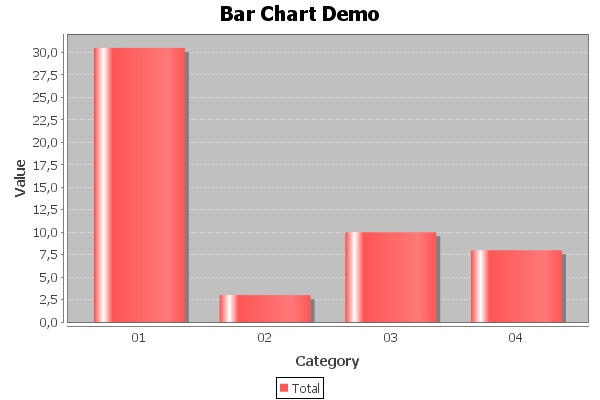
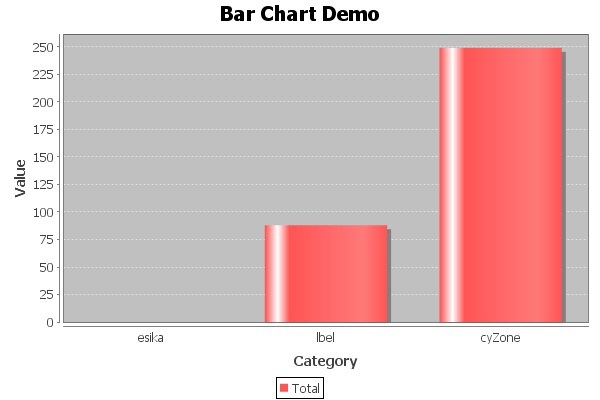
Merge origin/master
Conflicts:
	Sistemas/src/sistemas/ReporteVentas.java

diff --git a/Sistemas/src/sistemas/ReporteVentas.java b/Sistemas/src/sistemas/ReporteVentas.java
@@ -5,6 +5,7 @@
  */
 package sistemas;
 
+import SalesBusinessModel.SalesManager;
 import javax.swing.JFrame;
 import javax.swing.JFileChooser;
 import javax.swing.JPanel;
@@ -81,8 +82,8 @@ public class ReporteVentas extends javax.swing.JFrame {
         comboAgrupar = new javax.swing.JComboBox();
         jButton1 = new javax.swing.JButton();
         jLabel6 = new javax.swing.JLabel();
-        jRadioButton3 = new javax.swing.JRadioButton();
-        jRadioButton4 = new javax.swing.JRadioButton();
+        but_u = new javax.swing.JRadioButton();
+        but_d = new javax.swing.JRadioButton();
         jPanel2 = new javax.swing.JPanel();
         jScrollPane1 = new javax.swing.JScrollPane();
         jTable1 = new javax.swing.JTable();
@@ -137,14 +138,14 @@ public class ReporteVentas extends javax.swing.JFrame {
         jLabel6.setText("Unidades");
         jPanel1.add(jLabel6, new org.netbeans.lib.awtextra.AbsoluteConstraints(320, 110, -1, -1));
 
-        buttonGroup2.add(jRadioButton3);
-        jRadioButton3.setText("UNIDADES");
-        jPanel1.add(jRadioButton3, new org.netbeans.lib.awtextra.AbsoluteConstraints(410, 110, -1, -1));
+        buttonGroup2.add(but_u);
+        but_u.setText("UNIDADES");
+        jPanel1.add(but_u, new org.netbeans.lib.awtextra.AbsoluteConstraints(410, 110, -1, -1));
 
-        buttonGroup2.add(jRadioButton4);
-        jRadioButton4.setSelected(true);
-        jRadioButton4.setText("USD MILES");
-        jPanel1.add(jRadioButton4, new org.netbeans.lib.awtextra.AbsoluteConstraints(410, 140, -1, -1));
+        buttonGroup2.add(but_d);
+        but_d.setSelected(true);
+        but_d.setText("USD MILES");
+        jPanel1.add(but_d, new org.netbeans.lib.awtextra.AbsoluteConstraints(410, 140, -1, -1));
 
         jPanel2.setLayout(new java.awt.GridLayout(1, 0));
 
@@ -224,6 +225,44 @@ public class ReporteVentas extends javax.swing.JFrame {
     }//GEN-LAST:event_btnExpActionPerformed
 
     private void jButton1ActionPerformed(java.awt.event.ActionEvent evt) {//GEN-FIRST:event_jButton1ActionPerformed
+                if(comboAgrupar.getSelectedIndex()==0){//Por mes
+            ventasModel.titles.add("Código");
+            ventasModel.titles.add("Nombre de mes");
+            ventasModel.titles.add("Total");
+        }
+        else if(comboAgrupar.getSelectedIndex()==1){// Por marca
+            ventasModel.titles.clear();
+            ventasModel.titles.add("Marca");
+            int mesIni =jDateChooser1.getDate().getMonth();
+            int anoIni= jDateChooser1.getDate().getYear();
+            int mesFin =jDateChooser2.getDate().getMonth();
+            int anoFin =jDateChooser2.getDate().getYear();
+            System.out.println(mesIni);
+            System.out.println(anoIni);
+            System.out.println(mesFin);
+            System.out.println(anoFin);
+            int cantMeses=mesFin-mesIni;
+
+            if(anoIni<anoFin) cantMeses+= ((anoFin-anoIni)*12);
+            for(int i=mesIni;i<mesIni+cantMeses;i++){
+                
+                                 //System.out.println(SalesManager.ventaMarca("esika", i, anoIni+1900, 1));
+                
+                ventasModel.esika.add(SalesManager.ventaMarca("esika", i, anoIni+1900, 1));
+                ventasModel.lbel.add(SalesManager.ventaMarca("lbel", i, anoIni+1900, 1));
+                ventasModel.cyzone.add(SalesManager.ventaMarca("cyzone", i, anoIni+1900, 1));
+                System.out.println(toMonth(i,anoIni));
+            }
+            for(int i=mesIni;i<mesIni+cantMeses;i++){
+                ventasModel.titles.add(toMonth(i,anoIni));
+              
+            }
+
+        }
+        ventasModel.fireTableChanged(null);
+        
+        
+        
         String sel=(String)(jComboBox1.getSelectedItem());
         JFreeChart chart=null;
         if (sel.compareTo("Circular")==0){
@@ -268,38 +307,17 @@ public class ReporteVentas extends javax.swing.JFrame {
 
     private void comboAgruparActionPerformed(java.awt.event.ActionEvent evt) {//GEN-FIRST:event_comboAgruparActionPerformed
         // TODO add your handling code here:
-        if(comboAgrupar.getSelectedIndex()==0){//Por mes
-            ventasModel.titles.add("Código");
-            ventasModel.titles.add("Nombre de mes");
-            ventasModel.titles.add("Total");
-        }
-        else if(comboAgrupar.getSelectedIndex()==1){// Por marca
-            ventasModel.titles.clear();
-            ventasModel.titles.add("Marca");
-            int mesIni =jDateChooser1.getDate().getMonth();
-            int anoIni= jDateChooser1.getDate().getYear();
-            int mesFin =jDateChooser2.getDate().getMonth();
-            int anoFin =jDateChooser2.getDate().getYear();
-            System.out.println(mesIni);
-            System.out.println(anoIni);
-            System.out.println(mesFin);
-            System.out.println(anoFin);
-            int cantMeses=mesFin-mesIni;
 
-            if(anoIni<anoFin) cantMeses+= ((anoFin-anoIni)*12);
-            for(int i=mesIni;i<mesIni+cantMeses;i++){
-                ventasModel.titles.add(toMonth(i,anoIni));
-                System.out.println(toMonth(i,anoIni));
-            }
-
-        }
-        ventasModel.fireTableChanged(null);
     }//GEN-LAST:event_comboAgruparActionPerformed
 
     private void jComboBox1ActionPerformed(java.awt.event.ActionEvent evt) {//GEN-FIRST:event_jComboBox1ActionPerformed
         // TODO add your handling code here:
     }//GEN-LAST:event_jComboBox1ActionPerformed
 	class MyTableModel extends AbstractTableModel{
+            ArrayList<Integer> esika=new ArrayList<Integer>();
+             ArrayList<Integer> lbel=new ArrayList<Integer>();
+             ArrayList<Integer> cyzone=new ArrayList<Integer>();
+                    
 		//ArrayList<Product> productsLst = SalesManager.queryAllProducts(); 
 		ArrayList<String>  titles=new ArrayList<String>()  ;
 		@Override
@@ -312,12 +330,25 @@ public class ReporteVentas extends javax.swing.JFrame {
 		public int getRowCount() {
 			// TODO Auto-generated method stub
 			//eturn productsLst.size();
-                        return 0;
+                        return 3;
 		}
 
 		@Override
 		public Object getValueAt(int row, int col) {
 			String value = "";
+                        if(comboAgrupar.getSelectedIndex()==1){//marca
+                            if(col==0){
+                                if(row==0) return "esika";
+                                if(row==1) return "lbel";
+                                if(row==2) return "cyZone";
+                            }
+                            else{
+                                if(row==0 ) return ""+esika.get(col-1);
+                                if(row==1 ) return ""+lbel.get(col-1);
+                                if(row==2 ) return ""+cyzone.get(col-1);
+                                
+                            }
+                        }
 			switch(col){
 				//case 0:  value = "" + productsLst.get(row).getId(); break;
 				//case 1:  value = productsLst.get(row).getName(); break;
@@ -392,6 +423,8 @@ public class ReporteVentas extends javax.swing.JFrame {
 
     // Variables declaration - do not modify//GEN-BEGIN:variables
     private javax.swing.JButton btnExp;
+    private javax.swing.JRadioButton but_d;
+    private javax.swing.JRadioButton but_u;
     private javax.swing.ButtonGroup buttonGroup1;
     private javax.swing.ButtonGroup buttonGroup2;
     private javax.swing.JComboBox comboAgrupar;
@@ -408,8 +441,6 @@ public class ReporteVentas extends javax.swing.JFrame {
     private javax.swing.JLabel jLabel6;
     private javax.swing.JPanel jPanel1;
     private javax.swing.JPanel jPanel2;
-    private javax.swing.JRadioButton jRadioButton3;
-    private javax.swing.JRadioButton jRadioButton4;
     private javax.swing.JScrollPane jScrollPane1;
     private javax.swing.JSeparator jSeparator2;
     private javax.swing.JSeparator jSeparator3;

diff --git a/Sistemas/src/sistemas/prueba1.java b/Sistemas/src/sistemas/prueba1.java
@@ -1,0 +1,19 @@
+/*
+ * To change this license header, choose License Headers in Project Properties.
+ * To change this template file, choose Tools | Templates
+ * and open the template in the editor.
+ */
+package sistemas;
+
+import SalesBusinessModel.SalesManager;
+
+/**
+ *
+ * @author Sam
+ */
+public class prueba1 {
+      public static void main(String args[]) {
+          System.out.println(SalesManager.ventaMarca("cyzone", 6, 115+1900, 1));
+      }
+      
+}

diff --git a/Sistemas/src/SalesBusinessModel/SalesManager.java b/Sistemas/src/SalesBusinessModel/SalesManager.java
@@ -8,7 +8,7 @@ public class SalesManager {
     private static ProductDB productDB = new ProductDB();
     private static SalesDB salesDB=new SalesDB();
     
-    public static int ventaMarca(String marca, int mes, int anho, int unidad){
+    public static int ventaMarca(String marca, int mes, int anho, int unidad){//1 unidades 2 usd
         return salesDB.ventaMarca(marca, mes, anho, unidad);
     }
     public static void addSale(Sales s)

diff --git a/Sistemas/src/DAO/SQLServerDAOFactory.java b/Sistemas/src/DAO/SQLServerDAOFactory.java
@@ -9,7 +9,7 @@ public class SQLServerDAOFactory extends DAOFactory {
 
     @Override
     public DAOSales getDAOSales() {
-        throw new UnsupportedOperationException("Not supported yet."); //To change body of generated methods, choose Tools | Templates.
+        return new SQLServerDAOSales();//To change body of generated methods, choose Tools | Templates.
     }
 
 }
